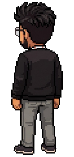
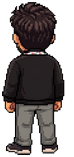
Replace 4th multiplayer character with Josh using new custom pixel art sprites

diff --git a/main.js b/main.js
@@ -94,7 +94,7 @@ registerAsset('charBack', 'assets/char_back.png?v=6');
 registerAsset('char1Back', 'assets/char1_back.png?v=6');
 registerAsset('char2Back', 'assets/char2_back.png?v=6');
 registerAsset('char3Back', 'assets/char3_back.png?v=6');
-registerAsset('char4Back', 'assets/char4_back.png?v=6');
+registerAsset('char4Back', 'assets/char4_back.png?v=7');
 registerAsset('bossPortrait', 'assets/boss_portrait.png?v=3');
 registerAsset('playerPortrait', 'assets/player_portrait.png?v=3');
 registerAsset('bossStanding', 'assets/boss_standing.png?v=3');
@@ -107,27 +107,27 @@ registerAsset('partnerPortrait', 'assets/partner_portrait.png');
 registerAsset('char1Spritesheet', 'assets/char1_spritesheet.png');
 registerAsset('char2Spritesheet', 'assets/char2_spritesheet.png');
 registerAsset('char3Spritesheet', 'assets/char3_spritesheet.png?v=2');
-registerAsset('char4Spritesheet', 'assets/char4_spritesheet.png?v=3');
+registerAsset('char4Spritesheet', 'assets/char4_spritesheet.png?v=7');
 registerAsset('char1Avatar', 'assets/char1_avatar.png');
 registerAsset('char2Avatar', 'assets/char2_avatar.png');
 registerAsset('char3Avatar', 'assets/char3_avatar.png?v=2');
-registerAsset('char4Avatar', 'assets/char4_avatar.png?v=3');
+registerAsset('char4Avatar', 'assets/char4_avatar.png?v=7');
 registerAsset('char1Idle', 'assets/char1_idle.png');
 registerAsset('char2Idle', 'assets/char2_idle.png');
 registerAsset('char3Idle', 'assets/char3_idle.png?v=2');
-registerAsset('char4Idle', 'assets/char4_idle.png?v=3');
+registerAsset('char4Idle', 'assets/char4_idle.png?v=7');
 registerAsset('char1Sitting', 'assets/char1_sitting.png?v=3');
 registerAsset('char2Sitting', 'assets/char2_sitting.png?v=3');
 registerAsset('char3Sitting', 'assets/char3_sitting.png?v=3');
-registerAsset('char4Sitting', 'assets/char4_seated_desk.png?v=3');
+registerAsset('char4Sitting', 'assets/char4_seated_desk.png?v=7');
 registerAsset('char1SeatedDesk', 'assets/char1_seated_desk.png?v=3');
 registerAsset('char2SeatedDesk', 'assets/char2_seated_desk.png?v=3');
 registerAsset('char3SeatedDesk', 'assets/char3_seated_desk.png?v=3');
-registerAsset('char4SeatedDesk', 'assets/char4_seated_desk.png?v=3');
+registerAsset('char4SeatedDesk', 'assets/char4_seated_desk.png?v=7');
 registerAsset('char1DiningSitting', 'assets/char1_dining_sitting.png?v=4');
 registerAsset('char2DiningSitting', 'assets/char2_dining_sitting.png?v=4');
 registerAsset('char3DiningSitting', 'assets/char3_dining_sitting.png?v=4');
-registerAsset('char4DiningSitting', 'assets/char4_dining_sitting.png?v=4');
+registerAsset('char4DiningSitting', 'assets/char4_dining_sitting.png?v=7');
 
 // Foreground occlusion props (for monitor & desk depth sorting)
 registerAsset('fgCornerDesk', 'assets/fg_corner_desk.png?v=3');

diff --git a/multiplayer.js b/multiplayer.js
@@ -74,13 +74,13 @@ class MultiplayerEngine {
       },
       {
         id: 'char4',
-        name: 'Yasharth',
+        name: 'Josh',
         role: 'Lead Architect',
-        desc: 'Glasses, Graphite tee & Spider-Man badge lanyard. Full-stack mastermind.',
-        avatar: 'assets/char4_avatar.png',
-        idleSprite: 'assets/char4_idle.png',
-        backSprite: 'assets/char4_back.png',
-        spritesheet: 'assets/char4_spritesheet.png',
+        desc: 'Glasses, beard, black jacket & developer lanyard. Systems architect.',
+        avatar: 'assets/char4_avatar.png?v=7',
+        idleSprite: 'assets/char4_idle.png?v=7',
+        backSprite: 'assets/char4_back.png?v=7',
+        spritesheet: 'assets/char4_spritesheet.png?v=7',
         available: true,
         claimedBy: null,
         claimedByName: null,
